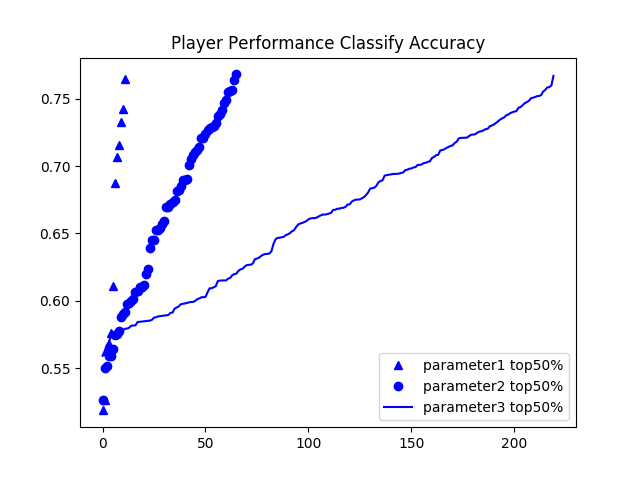
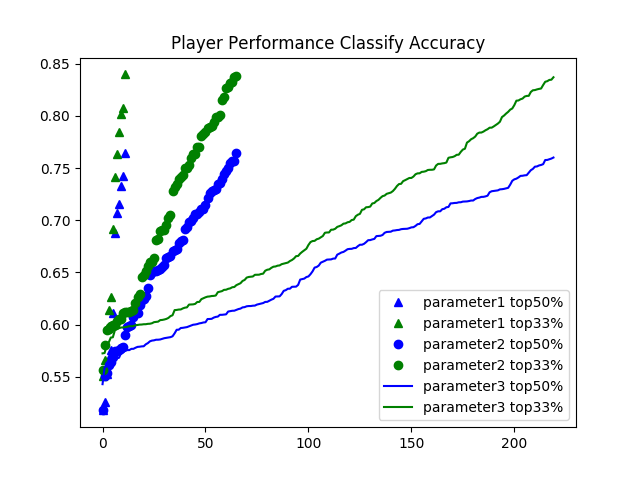
wfe

diff --git a/main.py b/main.py
@@ -162,7 +162,6 @@ def optunity_tune_svm_rbf(X_train_all, y_train_all, x_test, y_test):
 
 
 def optunity_tune_svr_rbf(X_train_all, y_train_all):
-
     outer_cv = optunity.cross_validated(x=X_train_all, y=y_train_all, num_folds=3)
 
     def compute_mse_rbf_tuned(x_train, y_train, x_test, y_test):
@@ -186,44 +185,15 @@ def optunity_tune_svr_rbf(X_train_all, y_train_all):
 
     # wrap with outer cross-validation
     compute_mse_rbf_tuned = outer_cv(compute_mse_rbf_tuned)
-    return  compute_mse_rbf_tuned() 
+    return  compute_mse_rbf_tuned()
 
-    #
-    # def train1(x_train, y_train, x_test, y_test, para):
-    #     model = sklearn.svm.SVR(C=para[0], epsilon=para[1], gamma=10 ** para[2])
-    #     model.fit(x_train, y_train)
-    #
-    #     auc = model.score(x_test, y_test)
-    #     # decision_values = model.decision_function(x_test)
-    #     # auc = optunity.metrics.roc_auc(y_test, decision_values)
-    #
-    #     return auc
-    #
-    # @optunity.cross_validated(x=X_train_all, y=y_train_all, num_folds=5)
-    # def svr_rbf_tuned_auroc(x_train, y_train, x_test, y_test, C, epsilon, logGamma):
-    #     acc = train1(x_train, y_train, x_test, y_test, (C, epsilon, logGamma))
-    #     # print("train acc: {}".format(acc))
-    #     return acc
-    #
-    # optimal_rbf_pars, info, _ = optunity.maximize(svr_rbf_tuned_auroc, num_evals=50, C=[1, 100], epsilon=[0.05, 0.2],
-    #                                               gamma=[0, 50], pmap=optunity.pmap)
-    # df = optunity.call_log2dataframe(info.call_log)
-    # df = df.sort_values(by='value', ascending=False)[:10]
-    #
-    # df1 = df.apply(lambda x: pd.Series({'True Acc':
-    #                                         train1(X_train_all, y_train_all, x_test, y_test,
-    #                                                (x.loc['C'], x.loc['epsilon'], x.loc['logGamma']))
-    #                                     }), axis=1)
-    # df3 = pd.concat([df, df1], axis=1)
-    # return train1(X_train_all, y_train_all, x_test, y_test, (optimal_rbf_pars['C'], optimal_rbf_pars['epsilon'],
-    #                                                          optimal_rbf_pars['logGamma']))
 
 
 def tune_player_svr(df, top, para=2):
     res = []
     for predictors in itertools.combinations(
             ['AvgBet', 'AvgB', 'AvgR', 'AvgC', 'AvgK', 'FlopVSim', 'TurnVSim', 'RiverVSim', 'FlopVCom',
-             'TurnVCom', 'RiverVCom', 'Aggressive'], para):
+             'TurnVCom', 'Aggressive'], para):
         X = df[list(predictors)]
         y = df.apply(lambda x: 1 if x.get('Player') in top else 0, axis=1)
         X_train = X.ix[:, :].values
@@ -262,42 +232,41 @@ def tune_player():
     df['AvgK'] = df['TotalK'] / df['TotalGames']
     df['Aggressive'] = (df['TotalB'] + df['TotalR']) / (df['TotalC'] + df['TotalK'])
 
-    top10, top25, top50, low10, low25, low50 = player_classify()
+    top33, top50, low33, low50 = player_classify(type=1)
 
     df50 = df[df['Player'].isin(top50 + low50)]
-    df25 = df[df['Player'].isin(top25 + low25)]
-    # df10 = df[df['Player'].isin(top10 + low10)]
+    df33 = df[df['Player'].isin(top33 + low33)]
 
-    result50_para1 = tune_player_svr(df50, top50, para=1)
+    result50_para1 = tune_player_svc(df50, top50, para=1)
     plt.plot([x[1] for x in list(reversed(result50_para1))], 'b^', label='parameter1 top50%')
 
-    # result25_para1 = tune_player_svc(df25, top25, para=1)
-    # plt.plot([x[1] for x in list(reversed(result25_para1))], 'g^', label='parameter1 top25%')
+    result33_para1 = tune_player_svc(df33, top33, para=1)
+    plt.plot([x[1] for x in list(reversed(result33_para1))], 'g^', label='parameter1 top33%')
 
-    result50_para2 = tune_player_svr(df50, top50, para=2)
+    result50_para2 = tune_player_svc(df50, top50, para=2)
     plt.plot([x[1] for x in list(reversed(result50_para2))], 'bo', label='parameter2 top50%')
 
-    # result25_para2 = tune_player_svc(df25, top25, para=2)
-    # plt.plot([x[1] for x in list(reversed(result25_para2))], 'go', label='parameter2 top25%')
+    result33_para2 = tune_player_svc(df33, top33, para=2)
+    plt.plot([x[1] for x in list(reversed(result33_para2))], 'go', label='parameter2 top33%')
 
-    result50_para3 = tune_player_svr(df50, top50, para=3)
+    result50_para3 = tune_player_svc(df50, top50, para=3)
     plt.plot([x[1] for x in list(reversed(result50_para3))], 'b-', label='parameter3 top50%')
 
-    # result25_para3 = tune_player_svc(df25, top25, para=3)
-    # plt.plot([x[1] for x in list(reversed(result25_para3))], 'g-', label='parameter3 top25%')
+    result33_para3 = tune_player_svc(df33, top33, para=3)
+    plt.plot([x[1] for x in list(reversed(result33_para3))], 'g-', label='parameter3 top33%')
 
     plt.legend(loc=0)
     plt.title('Player Performance Classify Accuracy')
-    plt.savefig('Player Performance Classify Accuracy.png')
+    plt.savefig('Player Performance Classify Accuracy2.png')
     plt.show()
 
     print('top50%Winning Results: {}'.format(result50_para1))
     print('top50%Winning Results: {}'.format(result50_para2))
     print('top50%Winning Results: {}'.format(result50_para3))
 
-    # print('top25%Winning Results: {}'.format(result25_para1))
-    # print('top25%Winning Results: {}'.format(result25_para2))
-    # print('top25%Winning Results: {}'.format(result25_para3))
+    print('top33%Winning Results: {}'.format(result33_para1))
+    print('top33%Winning Results: {}'.format(result33_para2))
+    print('top33%Winning Results: {}'.format(result33_para3))
 
 
 def vif_analysis(df, col, threshold):
@@ -532,20 +501,28 @@ def handvalue_boxplot():
     show()
 
 
-def player_classify():
+def player_classify(type=0):
     df = pd.read_csv("players.csv")
     df1 = df.loc[df['TotalGames'] >= 50]
     df1['AvgIncBet'] = (df1['BankIncBet'] - df1['TotalBet']) / df1['TotalGames']
     df1.sort_values(by=['AvgIncBet'], axis=0, inplace=True, ascending=False)
     size = df1['Player'].count()
-    top50 = list(df1['Player'].head(int(size / 2)))
-    top25 = list(df1['Player'].head(int(size / 4)))
-    top10 = list(df1['Player'].head(int(size / 10)))
+    if type==0:
+        top50 = list(df1['Player'].head(int(size / 2)))
+        top25 = list(df1['Player'].head(int(size / 4)))
+        top10 = list(df1['Player'].head(int(size / 10)))
 
-    low50 = list(df1['Player'].tail(int(size / 2)))
-    low25 = list(df1['Player'].tail(int(size / 4)))
-    low10 = list(df1['Player'].tail(int(size / 10)))
-    return top10, top25, top50, low10, low25, low50
+        low50 = list(df1['Player'].tail(int(size / 2)))
+        low25 = list(df1['Player'].tail(int(size / 4)))
+        low10 = list(df1['Player'].tail(int(size / 10)))
+        return top10, top25, top50, low10, low25, low50
+    else:
+        top50 = list(df1['Player'].head(int(size / 2)))
+        top33 = list(df1['Player'].head(int(size / 3)))
+
+        low50 = list(df1['Player'].tail(int(size / 2)))
+        low33 = list(df1['Player'].tail(int(size / 3)))
+        return top33, top50, low33, low50
 
 
 def handvalue_boxplot_stage(stage_name):
